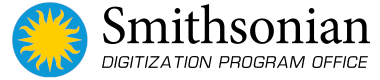
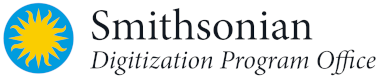
Many updates
Updated DPO logo, added postprocessing to file page, added project notice for pauses in production or other issues, fixing query formatting.

diff --git a/web_app/templates/file.html b/web_app/templates/file.html
@@ -96,22 +96,6 @@
 
 
 
-                    <div class="modal fade" id="checkmodal" tabindex="-1" aria-labelledby="checkmodalLabel" aria-hidden="true">
-                      <div class="modal-dialog modal-dialog-centered modal-dialog-scrollable modal-lg">
-                        <div class="modal-content">
-                          <div class="modal-header">
-                            <h1 class="modal-title" id="checkmodalLabel">Check Details</h1>
-                            <button type="button" class="btn-close" data-bs-dismiss="modal" aria-label="Close"></button>
-                          </div>
-                          <div class="modal-body">
-                            <pre>#</pre>
-                          </div>
-                          <div class="modal-footer">
-                            <button type="button" class="btn btn-secondary" data-bs-dismiss="modal">Close</button>
-                          </div>
-                        </div>
-                      </div>
-                    </div>
 
         </div>
     </div>
@@ -135,6 +119,7 @@
                         </div>
                     {% endif %}
 
+            <!-- File checks -->
             <div class="card">
                 <h2 class="card-header text-white bg-primary">File Technical Checks</h2>
                 <div class="card-body">
@@ -193,6 +178,82 @@
                 </div>
             </div>
 
+
+            <!-- File postprocessing -->
+            <div class="card">
+                <h2 class="card-header text-white bg-primary">File Postprocessing Steps</h2>
+                <div class="card-body">
+                    <table class="table compact table-striped" style="width:100%">
+                    <thead>
+                        <tr>
+                            <th>Step</th>
+                            <th>Result</th>
+                        </tr>
+                    </thead>
+                    <tbody>
+                        {% for step in file_postprocessing %}
+                            <tr>
+                                <td style="font-size: small;">
+                                    <strong>{{ step.post_step }}</strong>
+                                </td>
+                                <td style="font-size: small;">
+                                    {% if step.post_results == 0 %}
+                                        <button type="button" class="btn btn-success btn-sm w-100" data-bs-toggle="modal" data-bs-target="#postmodal" data-bs-info2="{{ step.post_info }}">Completed</button>
+                                    {% elif step.post_results == 1 %}
+                                        <button type="button" class="btn btn-danger btn-sm w-100" data-bs-toggle="modal" data-bs-target="#postmodal" data-bs-info2="{{ step.post_info }}">Failed</button>
+                                    {% elif step.post_results == 9 %}
+                                        <button type="button" class="btn btn-secondary btn-sm w-100" data-bs-toggle="modal" data-bs-target="#postmodal" data-bs-info2="{{ step.post_info }}">Pending</button>
+                                    {% endif %}
+                                </td>
+                            </tr>
+                        {% endfor %}
+                        </tbody>
+    
+                    </table>
+                </div>
+            </div>
+
+
+            <!-- File check and post modals -->
+            <div class="modal fade" id="checkmodal" tabindex="-1" aria-labelledby="checkmodalLabel" aria-hidden="true">
+                <div class="modal-dialog modal-dialog-centered modal-dialog-scrollable modal-lg">
+                  <div class="modal-content">
+                    <div class="modal-header">
+                      <h1 class="modal-title" id="checkmodalLabel">Check Details</h1>
+                      <button type="button" class="btn-close" data-bs-dismiss="modal" aria-label="Close"></button>
+                    </div>
+                    <div class="modal-body">
+                      <pre>#</pre>
+                    </div>
+                    <div class="modal-footer">
+                      <button type="button" class="btn btn-secondary" data-bs-dismiss="modal">Close</button>
+                    </div>
+                  </div>
+                </div>
+              </div>
+
+
+              
+              <div class="modal fade" id="postmodal" tabindex="-1" aria-labelledby="postmodalLabel" aria-hidden="true">
+                  <div class="modal-dialog modal-dialog-centered modal-dialog-scrollable modal-lg">
+                    <div class="modal-content">
+                      <div class="modal-header">
+                        <h1 class="modal-title" id="postmodalLabel">Postprocessing Details</h1>
+                        <button type="button" class="btn-close" data-bs-dismiss="modal" aria-label="Close"></button>
+                      </div>
+                      <div class="modal-body">
+                        <pre>#</pre>
+                      </div>
+                      <div class="modal-footer">
+                        <button type="button" class="btn btn-secondary" data-bs-dismiss="modal">Close</button>
+                      </div>
+                    </div>
+                  </div>
+                </div>
+
+
+
+
         </div>
         <div class="col-8">
 
@@ -243,6 +304,7 @@
                     ],
             });
 
+            // file checks details
             var exampleModal = document.getElementById('checkmodal')
             exampleModal.addEventListener('show.bs.modal', function (event) {
               // Button that triggered the modal
@@ -255,7 +317,23 @@
               // Update the modal's content.
               var modalBody = exampleModal.querySelector('.modal-body pre')
 
-              modalBody.textContent = checkinfo
+              modalBody.textContent = checkinfo;
+            })
+              
+            // post details
+            var exampleModal2 = document.getElementById('postmodal')
+            exampleModal2.addEventListener('show.bs.modal', function (event) {
+              // Button that triggered the modal
+              var button = event.relatedTarget
+              // Extract info from data-bs-* attributes
+              var postinfo = button.getAttribute('data-bs-info2')
+              // If necessary, you could initiate an AJAX request here
+              // and then do the updating in a callback.
+              //
+              // Update the modal's content.
+              var modalBody2 = exampleModal2.querySelector('.modal-body pre')
+
+              modalBody2.textContent = postinfo;
             })
 
         });

diff --git a/web_app/templates/dashboard.html b/web_app/templates/dashboard.html
@@ -99,8 +99,15 @@
                 <input type="text" class="form-control form-control-md" id="search_files" name="q" aria-label="Search Files" placeholder="Search Files in the Project">
                 </form>
             </div>
-
         </div>
+
+        {% if project_info.project_message != "" and project_info.project_message != None %}
+            <div class="row">
+                <div class="col">
+                    <p class="p-3 text-danger-emphasis bg-danger-subtle border border-danger-subtle rounded-3">Note: {{ project_info.project_message }}</p>
+                </div>
+            </div>
+        {% endif %}
     </div>
 </div>
 

diff --git a/web_app/app.py b/web_app/app.py
@@ -583,13 +583,13 @@ def homepage(team=None):
                      " p.project_status, "
                      " p.project_manager, "
                      " CASE "
-                     "      WHEN p.project_end IS NULL THEN CONCAT(date_format(p.project_start, '%%d %%b %%Y'), ' -') "
-                     "      WHEN p.project_start = p.project_end THEN date_format(p.project_start, '%%d %%b %%Y') "                     
-                     "      WHEN date_format(p.project_start, '%%Y-%%c') = date_format(p.project_end, '%%Y-%%c') "
-                     "          THEN CONCAT(date_format(p.project_start, '%%d'), ' - ', date_format(p.project_end, '%%d %%b %%Y')) "
-                     "      WHEN date_format(p.project_start, '%%Y') = date_format(p.project_end, '%%Y') "
-                     "          THEN CONCAT(date_format(p.project_start, '%%d %%b'), ' - ', date_format(p.project_end, '%%d %%b %%Y')) "
-                     "      ELSE CONCAT(date_format(p.project_start, '%%d %%b %%Y'), ' - ', date_format(p.project_end, '%%d %%b %%Y')) END "
+                     "      WHEN p.project_end IS NULL THEN CONCAT(date_format(p.project_start, '%d %b %Y'), ' -') "
+                     "      WHEN p.project_start = p.project_end THEN date_format(p.project_start, '%d %b %Y') "                     
+                     "      WHEN date_format(p.project_start, '%Y-%c') = date_format(p.project_end, '%Y-%c') "
+                     "          THEN CONCAT(date_format(p.project_start, '%d'), ' - ', date_format(p.project_end, '%d %b %Y')) "
+                     "      WHEN date_format(p.project_start, '%Y') = date_format(p.project_end, '%Y') "
+                     "          THEN CONCAT(date_format(p.project_start, '%d %b'), ' - ', date_format(p.project_end, '%d %b %Y')) "
+                     "      ELSE CONCAT(date_format(p.project_start, '%d %b %Y'), ' - ', date_format(p.project_end, '%d %b %Y')) END "
                      "         as project_dates, "
                      " CASE WHEN p.objects_estimated IS True THEN CONCAT(coalesce(format(ps.objects_digitized, 0), 0), '*') ELSE "
                      " coalesce(format(ps.objects_digitized, 0), 0) END as objects_digitized, "
@@ -850,8 +850,8 @@ def dashboard_f(project_alias=None, folder_id=None, tab=None, page=None):
     else:
         project_admin = False
     project_info = run_query("SELECT *, "
-                             "      CONCAT(date_format(project_start, '%%d-%%b-%%Y'), "
-                             "          CASE WHEN project_end IS NULL THEN '' ELSE CONCAT(' to ', date_format(project_end, '%%d-%%b-%%Y')) END "
+                             "      CONCAT(date_format(project_start, '%d-%b-%Y'), "
+                             "          CASE WHEN project_end IS NULL THEN '' ELSE CONCAT(' to ', date_format(project_end, '%d-%b-%Y')) END "
                              "          ) as pdates "
                              " FROM projects WHERE project_alias = %(project_alias)s",
                                   {'project_alias': project_alias}, cur=cur)[0]
@@ -1425,8 +1425,8 @@ def dashboard_f_ajax(project_alias=None, folder_id=None, tab=None, page=None):
     else:
         project_admin = False
     project_info = run_query("SELECT *, "
-                             "      CONCAT(date_format(project_start, '%%d-%%b-%%Y'), "
-                             "          CASE WHEN project_end IS NULL THEN '' ELSE CONCAT(' to ', date_format(project_end, '%%d-%%b-%%Y')) END "
+                             "      CONCAT(date_format(project_start, '%d-%b-%Y'), "
+                             "          CASE WHEN project_end IS NULL THEN '' ELSE CONCAT(' to ', date_format(project_end, '%d-%b-%Y')) END "
                              "          ) as pdates "
                              " FROM projects WHERE project_alias = %(project_alias)s",
                                   {'project_alias': project_alias}, cur=cur)[0]
@@ -2101,8 +2101,8 @@ def dashboard(project_alias=None):
     else:
         project_admin = False
     project_info = run_query("SELECT *, CONCAT('https://dpo.si.edu/', lower(replace(project_manager, ' ', '-'))) as project_manager_link, "
-                             "      CONCAT(date_format(project_start, '%%d-%%b-%%Y'), "
-                             "          CASE WHEN project_end IS NULL THEN '' ELSE CONCAT(' to ', date_format(project_end, '%%d-%%b-%%Y')) END "
+                             "      CONCAT(date_format(project_start, '%d-%b-%Y'), "
+                             "          CASE WHEN project_end IS NULL THEN '' ELSE CONCAT(' to ', date_format(project_end, '%d-%b-%Y')) END "
                              "          ) as pdates "
                              "   FROM projects WHERE project_id = %(project_id)s",
                                   {'project_id': project_id}, cur=cur)[0]
@@ -2357,9 +2357,9 @@ def proj_statistics(project_alias=None):
 
     proj_stats_steps = run_query("SELECT * FROM projects_detail_statistics_steps WHERE project_id = %(proj_id)s and (stat_type='column' or stat_type='boxplot' or stat_type='area') and active=1 ORDER BY step_order", {'proj_id': project_info['proj_id']}, cur=cur)
 
-    proj_stats_vals1 = run_query("SELECT s.step_info, s.step_notes, step_units, s.css, s.round_val, DATE_FORMAT(s.step_updated_on, \"%%Y-%%m-%%d %%H:%%i:%%s\") as step_updated_on, e.step_value FROM projects_detail_statistics_steps s, projects_detail_statistics e WHERE s.project_id = %(proj_id)s and s.stat_type='stat' and e.step_id = s.step_id and s.active=1 ORDER BY s.step_order LIMIT 3", {'proj_id': project_info['proj_id']}, cur=cur)
+    proj_stats_vals1 = run_query("SELECT s.step_info, s.step_notes, step_units, s.css, s.round_val, DATE_FORMAT(s.step_updated_on, \"%Y-%m-%d %H:%i:%s\") as step_updated_on, e.step_value FROM projects_detail_statistics_steps s, projects_detail_statistics e WHERE s.project_id = %(proj_id)s and s.stat_type='stat' and e.step_id = s.step_id and s.active=1 ORDER BY s.step_order LIMIT 3", {'proj_id': project_info['proj_id']}, cur=cur)
 
-    proj_stats_vals2 = run_query("SELECT s.step_info, s.step_notes, s.step_units, s.css, s.round_val, DATE_FORMAT(s.step_updated_on, \"%%Y-%%m-%%d %%H:%%i:%%s\") as step_updated_on, e.step_value FROM projects_detail_statistics_steps s, projects_detail_statistics e WHERE s.project_id = %(proj_id)s and s.stat_type='stat' and e.step_id = s.step_id and s.active=1 ORDER BY s.step_order LIMIT 3, 3", {'proj_id': project_info['proj_id']}, cur=cur)
+    proj_stats_vals2 = run_query("SELECT s.step_info, s.step_notes, s.step_units, s.css, s.round_val, DATE_FORMAT(s.step_updated_on, \"%Y-%m-%d %H:%i:%s\") as step_updated_on, e.step_value FROM projects_detail_statistics_steps s, projects_detail_statistics e WHERE s.project_id = %(proj_id)s and s.stat_type='stat' and e.step_id = s.step_id and s.active=1 ORDER BY s.step_order LIMIT 3, 3", {'proj_id': project_info['proj_id']}, cur=cur)
 
     # Stats
     project_stats = {}
@@ -2625,7 +2625,7 @@ def qc(project_alias=None):
                                 "      WHEN q.qc_status = 1 THEN 'QC Failed' "
                                 "      ELSE 'QC Pending' END AS qc_status, "
                                 "      q.qc_ip, u.username AS qc_by, "
-                                "      date_format(q.updated_at, '%%Y-%%m-%%d') AS updated_at, "
+                                "      date_format(q.updated_at, '%Y-%m-%d') AS updated_at, "
                                 "       COALESCE(errors.no_files, 0) as qc_stats_no_errors, "
                                 "       COALESCE(passed.no_files, 0) as qc_stats_no_passed,"
                                 "       COALESCE(total.no_files, 0) as qc_stats_no_files "
@@ -2673,7 +2673,7 @@ def qc(project_alias=None):
                                      "      WHEN q.qc_status = 1 THEN 'QC Failed' "
                                      "      ELSE 'QC Pending' END AS qc_status, "
                                      "      q.qc_ip, u.username AS qc_by, "
-                                     "      date_format(q.updated_at, '%%Y-%%m-%%d') AS updated_at, "
+                                     "      date_format(q.updated_at, '%Y-%m-%d') AS updated_at, "
                                      "       COALESCE(errors.no_files, 0) as qc_stats_no_errors, "
                                      "       COALESCE(passed.no_files, 0) as qc_stats_no_passed,"
                                      "       COALESCE(total.no_files, 0) as qc_stats_no_files "
@@ -2720,7 +2720,7 @@ def qc(project_alias=None):
                                      "      WHEN q.qc_status = 1 THEN 'QC Failed' "
                                      "      ELSE 'QC Pending' END AS qc_status, "
                                      "      q.qc_ip, u.username AS qc_by, "
-                                     "      date_format(q.updated_at, '%%Y-%%m-%%d') AS updated_at, "
+                                     "      date_format(q.updated_at, '%Y-%m-%d') AS updated_at, "
                                      "       COALESCE(errors.no_files, 0) as qc_stats_no_errors, "
                                      "       COALESCE(passed.no_files, 0) as qc_stats_no_passed,"
                                      "       COALESCE(total.no_files, 0) as qc_stats_no_files "
@@ -2868,7 +2868,7 @@ def qc_process(folder_id):
                                       "          WHEN q.qc_status = 1 THEN 'QC Failed' "
                                       "          ELSE 'QC Pending' END AS qc_status, "
                                       "      qc_ip, u.username AS qc_by, "
-                                      "      date_format(q.updated_at, '%%Y-%%m-%%d') AS updated_at"
+                                      "      date_format(q.updated_at, '%Y-%m-%d') AS updated_at"
                                       " FROM qc_folders q, "
                                       "      users u WHERE q.qc_by=u.user_id "
                                       "      AND q.folder_id = %(folder_id)s"),
@@ -3249,8 +3249,8 @@ def home():
     logger.info(is_admin)
     ip_addr = request.environ['REMOTE_ADDR']
     projects = run_query(("select p.project_title, p.project_id, p.project_alias, "
-                               "     date_format(p.project_start, '%%b-%%Y') as project_start, "
-                               "     date_format(p.project_end, '%%b-%%Y') as project_end,"
+                               "     date_format(p.project_start, '%b-%Y') as project_start, "
+                               "     date_format(p.project_end, '%b-%Y') as project_end,"
                                "     p.qc_status, p.project_unit "
                                " FROM qc_projects qp, "
                                "       users u, "
@@ -3913,20 +3913,6 @@ def file(file_id=None):
     # Declare the login form
     form = LoginForm(request.form)
 
-    # Connect to db
-    # try:
-    #     conn = pymysql.connect(host=settings.host,
-    #                            user=settings.user,
-    #                            passwd=settings.password,
-    #                            database=settings.database,
-    #                            port=settings.port,
-    #                            charset='utf8mb4',
-    #                            cursorclass=pymysql.cursors.DictCursor,
-    #                            autocommit=True)
-    #     cur = conn.cursor()
-    # except mysql.connector.Error as e:
-    #     logger.error(e)
-    #     raise InvalidUsage('System error')
     try:
         conn = mysql.connector.connect(host=settings.host,
                                 user=settings.user,
@@ -3936,7 +3922,7 @@ def file(file_id=None):
         cur = conn.cursor(dictionary=True)
     except mysql.connector.Error as err:
         logger.error(err)
-        return jsonify({'error': 'API error'}), 500
+        return jsonify({'error': 'System Error'}), 500
 
     file_id, file_uid = check_file_id(file_id, cur=cur)
 
@@ -3987,6 +3973,11 @@ def file(file_id=None):
                                   " ELSE check_info END AS check_info "
                                   " FROM files_checks WHERE file_id = %(file_id)s"),
                                  {'file_id': file_id}, cur=cur)
+    file_postprocessing = run_query(("SELECT post_step, post_results, CASE WHEN post_info = '' THEN 'Step completed.' "
+                                     " WHEN post_info IS NULL THEN 'Step completed.' "
+                                  " ELSE post_info END AS post_info "
+                                  " FROM file_postprocessing WHERE file_id = %(file_id)s"),
+                                 {'file_id': file_id}, cur=cur)
     image_url = '/preview_image/' + str(file_id)
     file_metadata = pd.DataFrame(run_query(("SELECT tag, taggroup, tagid, value "
                                                  " FROM files_exif "
@@ -4036,6 +4027,7 @@ def file(file_id=None):
                            folder_info=folder_info,
                            file_details=file_details,
                            file_checks=file_checks,
+                           file_postprocessing=file_postprocessing,
                            username=user_name,
                            image_url=image_url,
                            is_admin=is_admin,
@@ -4142,7 +4134,7 @@ def search_files(project_alias):
                                       " LIMIT 50 "
                                       " OFFSET {offset} ").format(offset=offset),
                                      {'project_alias': project_alias,
-                                      'q': '%%' + q + '%%'}, cur=cur)
+                                      'q': '%' + q + '%'}, cur=cur)
         else:
             results = run_query(("WITH m AS (SELECT file_id, tag, value, tagid, taggroup "
                                       "              FROM files_exif "
@@ -4160,7 +4152,7 @@ def search_files(project_alias):
                                       " LIMIT 50 "
                                       " OFFSET {offset} ").format(offset=offset),
                                      {'project_alias': project_alias,
-                                      'q': '%%' + q + '%%'}, cur=cur)
+                                      'q': '%' + q + '%'}, cur=cur)
     cur.close()
     conn.close()
 
@@ -4278,7 +4270,7 @@ def search_folders(project_alias):
                                      "  ORDER BY f.project_folder ASC"
                                      "  LIMIT 50 OFFSET {offset}").format(offset=offset),
                                  {'project_alias': project_alias,
-                                  'q': '%%' + q + '%%'}, cur=cur)
+                                  'q': '%' + q + '%'}, cur=cur)
     results_df = pd.DataFrame({'folder': [], 'no_files': []})
     for row in results:
         results_df.loc[len(results_df.index)] = ['<a href="/dashboard/' + project_alias \

diff --git a/web_app/osprey_common.py b/web_app/osprey_common.py
@@ -2,7 +2,7 @@
 
 import settings
 
-site_ver = "2.7.7"
+site_ver = "2.7.8"
 site_env = settings.env
 site_net = settings.site_net
 
